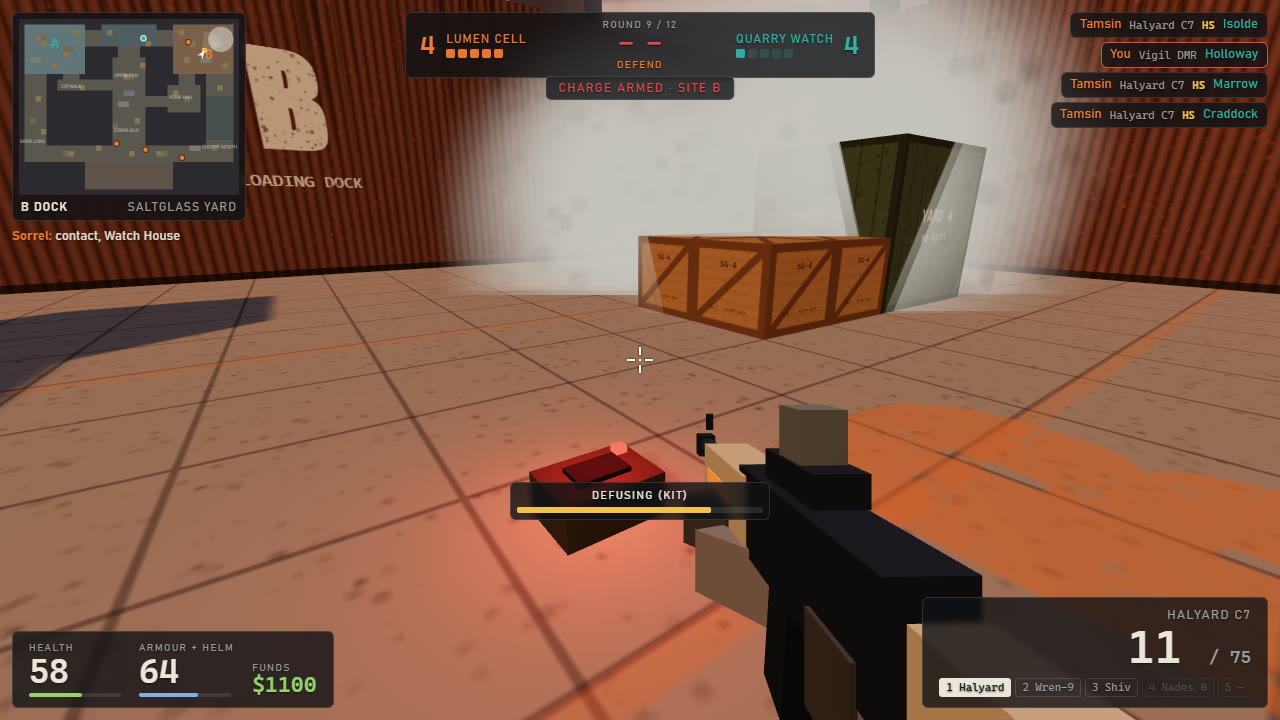
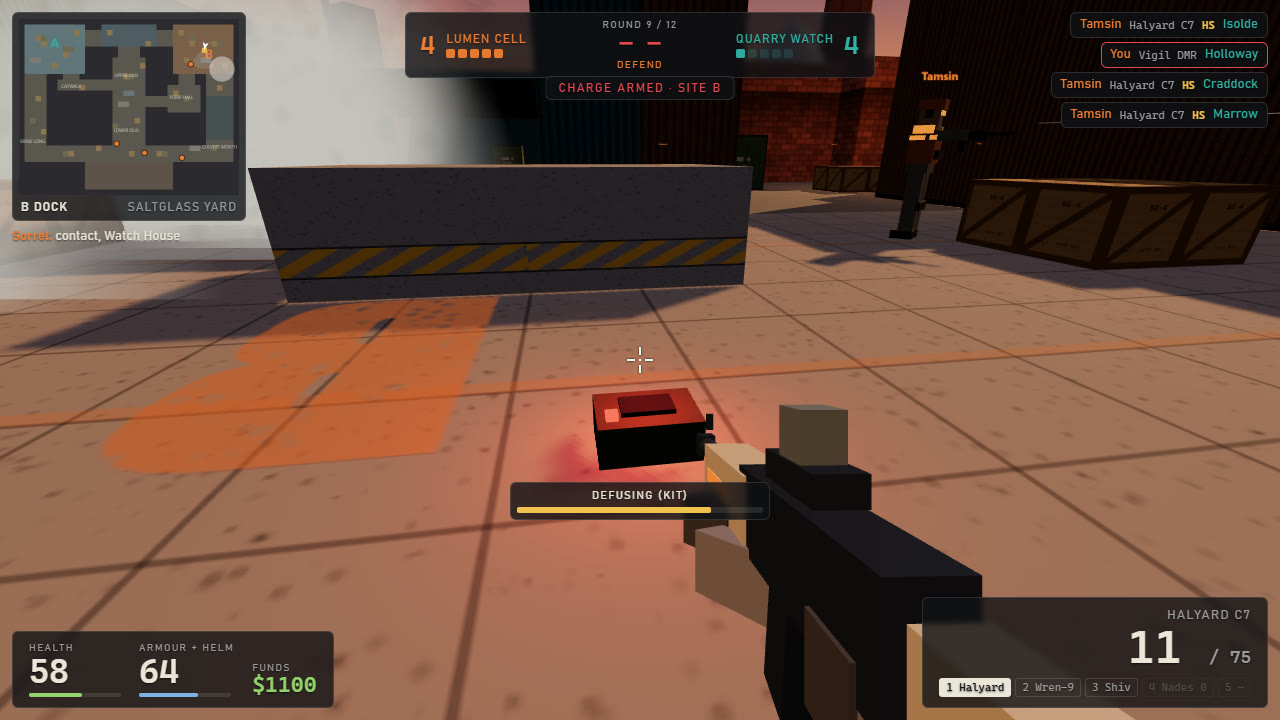
v7: final-board and retake screenshots restaged
The scoreboard shot is now the real end of a match: round 11 won through the
round rules, 7:4, with the Victory verdict over both final tables. The retake
shot looks across B at the armed charge with the defuse bar, a teammate
covering the west entrance and a smoke on the east one.

diff --git a/game/src/shots.js b/game/src/shots.js
@@ -107,13 +107,14 @@ const SCENES = {
     for (let i = 0; i < 200 && state.charge.phase !== 'planted'; i++) { isolde.wantUse = true; charge.update(1 / 60); }
     earlierKill(game, isolde, tamsin, 'halyard', true, 34.6, 3.4);
     earlierKill(game, holloway, me, 'vigil', false, 30.4, 9.6);
-    put(me, 32.8, 5.9);
+    put(me, 33.35, 4.35);
     me.kit = true; me.armor = 64; me.helmet = true; me.hp = 58; me.money = 1100;
     arm(me, 'halyard', 11);
-    put(tamsin, 30.8, 3.6, -0.9); arm(tamsin, 'halyard');
-    game.grenades.spawn('smoke', tamsin, cellX(36.2), 0.3, cellZ(3.2), 0, 0, 0);
+    put(tamsin, 30.2, 8.4, Math.PI); tamsin.crouching = true; tamsin.crouch = 1; arm(tamsin, 'halyard');
+    // The smoke walls off the east entrance the attackers would re-peek from.
+    game.grenades.spawn('smoke', tamsin, cellX(36.4), 0.3, cellZ(8.6), 0, 0, 0);
     me.crouching = true; me.crouch = 1;
-    me.yaw = -0.62; me.pitch = -0.3;
+    me.yaw = Math.PI - 0.16; me.pitch = -0.4;
     // The surviving attackers are smoked out of the fight (blinded) so the defuse runs uninterrupted.
     const holders = state.actors.filter((a) => a.alive && a.team === 'watch');
     for (let i = 0; i < 170; i++) {
@@ -125,23 +126,27 @@ const SCENES = {
     me.wantUse = true;
   },
 
-  // Round won: the scoreboard over the last seconds of round 8.
+  // Match point won: round 11, Lumen Cell (defending since halftime) wipe the attackers, the
+  // round rule takes the score to 7 and ends the match, and the final board carries the verdict.
   board(game) {
     const { state } = game;
-    state.round = 8; state.teams.cell.score = 4; state.teams.watch.score = 3;
+    state.teams.cell.side = 'def'; state.teams.watch.side = 'atk';
+    state.round = 11; state.teams.cell.score = 6; state.teams.watch.score = 4;
+    state.phase = 'live'; state.liveTime = 50; state.clock = 55;
     const me = state.player;
-    const tally = [[me, 14, 3, 6, 1510, 3], [find(state, 'Wick'), 9, 4, 7, 1140, 2], [find(state, 'Brannock'), 8, 2, 6, 990, 1],
-      [find(state, 'Sorrel'), 5, 6, 7, 760, 0], [find(state, 'Tamsin'), 4, 3, 8, 640, 0], [find(state, 'Craddock'), 12, 2, 7, 1360, 2],
-      [find(state, 'Holloway'), 9, 3, 7, 1080, 1], [find(state, 'Pell'), 6, 4, 8, 820, 0], [find(state, 'Isolde'), 5, 2, 8, 700, 0], [find(state, 'Marrow'), 3, 4, 9, 520, 0]];
-    const hsShare = [0.41, 0.33, 0.44, 0.2, 0.25, 0.5, 0.33, 0.17, 0.4, 0.33];
-    tally.forEach(([a, k, as, d, dmg, mvp], i) => Object.assign(a.stats, { kills: k, headshots: Math.round(k * hsShare[i]), assists: as, deaths: d, damage: dmg, mvps: mvp }));
-    state.phase = 'live'; state.liveTime = 50; state.clock = 38;
-    put(me, 6.2, 6.4, -2.3); arm(me, 'lancer', 17);
-    for (const name of ['Pell', 'Isolde', 'Marrow']) earlierKill(game, find(state, name), me, 'lancer', name !== 'Marrow', 7 + name.length * 0.4, 8 - name.length * 0.3);
+    put(me, 6.2, 6.4, -2.3); arm(me, 'halyard', 17);
+    for (const name of ['Pell', 'Isolde', 'Marrow']) earlierKill(game, find(state, name), me, 'halyard', name !== 'Marrow', 7 + name.length * 0.4, 8 - name.length * 0.3);
     earlierKill(game, find(state, 'Craddock'), find(state, 'Wick'), 'hornet', false, 9.5, 3.5);
-    earlierKill(game, find(state, 'Holloway'), find(state, 'Brannock'), 'lancer', true, 3.2, 9.1);
-    for (let i = 0; i < 60; i++) game.simulate(1 / 60, true);
+    earlierKill(game, find(state, 'Holloway'), find(state, 'Brannock'), 'halyard', true, 3.2, 9.1);
+    // The round's own rules end the round and then the match (endDelay later).
+    for (let i = 0; i < 60 * 6 && state.phase !== 'end'; i++) game.simulate(1 / 60, true);
+    const tally = [[me, 19, 4, 8, 2210, 4], [find(state, 'Wick'), 13, 5, 9, 1580, 2], [find(state, 'Brannock'), 11, 3, 8, 1340, 2],
+      [find(state, 'Sorrel'), 7, 8, 9, 1020, 1], [find(state, 'Tamsin'), 6, 4, 10, 870, 0], [find(state, 'Craddock'), 15, 2, 10, 1740, 2],
+      [find(state, 'Holloway'), 11, 4, 10, 1390, 2], [find(state, 'Pell'), 8, 5, 11, 1060, 0], [find(state, 'Isolde'), 6, 3, 11, 880, 0], [find(state, 'Marrow'), 4, 5, 12, 640, 0]];
+    const hsShare = [0.42, 0.31, 0.45, 0.29, 0.33, 0.47, 0.36, 0.25, 0.33, 0.25];
+    tally.forEach(([a, k, as, d, dmg, mvp], i) => Object.assign(a.stats, { kills: k, headshots: Math.round(k * hsShare[i]), assists: as, deaths: d, damage: dmg, mvps: mvp }));
     game.board.show();
+    game.showScreen(null);
   },
 };
 
